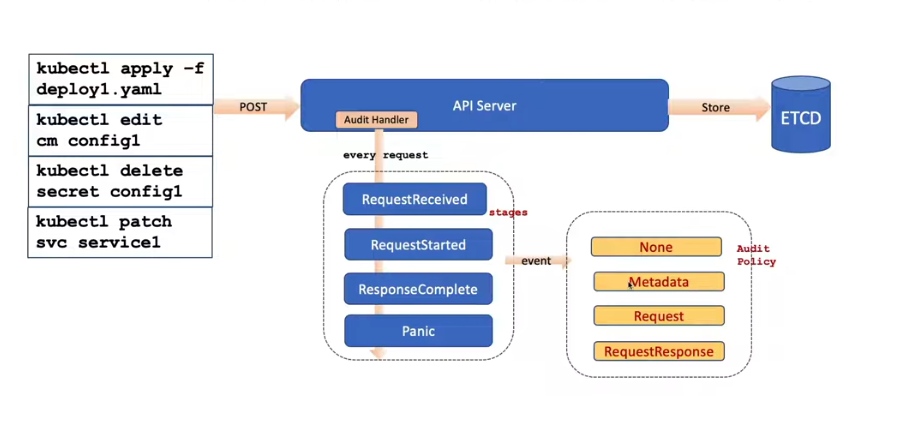
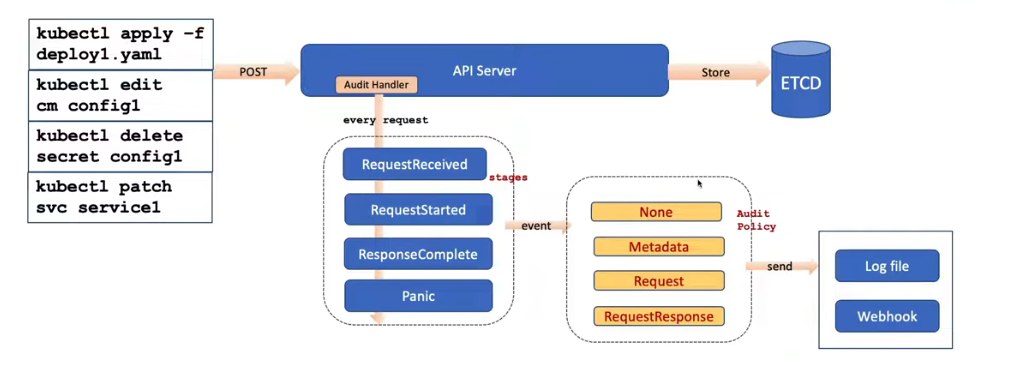
(add): part of audit logging blog

diff --git a/content/blog/audit-logging.md b/content/blog/audit-logging.md
@@ -1,0 +1,255 @@
+---
+title: "Kubernetes Audit Logging: Stages, Levels, and Policy Design"
+description: "A breakdown of how kube-apiserver audit events actually work - request stages, audit levels, writing policies, and how SREs tune them differently for prod vs dev clusters."
+dateString: June 2026
+draft: false
+tags: ["Kubernetes", "DevOps", "Security", "Compliance", "kube-apiserver", "SRE"]
+weight: 1
+cover:
+    image: "/blog/audit-logging/k8s-audit.png"
+---
+
+## Architecture
+
+![K8s Audit Logging Architecture](/blog/audit-logging/architecture.png)
+
+Every single request that hits `kube-apiserver` (eg. `kubectl get pods`) generates an audit event. There's no separate "audit service" sitting beside the apiserver; auditing is a feature built directly into the apiserver's request handling pipeline.
+
+As that request moves through its lifecycle, it passes through up to four **stages**, and the apiserver can emit an audit event at each one.
+
+---
+
+## The four stages
+
+#### 1. RequestReceived
+
+Generated the moment the audit handler receives the request, before it's been processed or authorized.
+
+```json
+{
+  "kind": "Event",
+  "apiVersion": "audit.k8s.io/v1",
+  "level": "Metadata",
+  "stage": "RequestReceived",
+  "requestURI": "/api/v1/namespaces/default/pods",
+  "verb": "create",
+  "user": { "username": "deploy-bot", "groups": ["system:serviceaccounts"] },
+  "requestReceivedTimestamp": "2026-06-23T10:15:30.100000Z"
+}
+```
+
+This stage exists, but not very usefull in most cases cause it roughly doubles event volume while telling you nothing you don't already get.
+
+### ResponseStarted
+
+Fired once the response headers go out, but before the response body is sent. This only applies to long-running requests - `watch` connections are the main case. A `kubectl get pods -w` or a controller's informer watch will hit this stage, a normal `kubectl get pods` won't.
+
+```json
+{
+  "kind": "Event",
+  "apiVersion": "audit.k8s.io/v1",
+  "level": "Metadata",
+  "stage": "ResponseStarted",
+  "requestURI": "/api/v1/namespaces/default/pods?watch=true",
+  "verb": "watch",
+  "user": { "username": "system:kube-controller-manager" }
+}
+```
+
+### ResponseComplete
+
+The response body has been fully sent - nothing more is coming. This is the stage that matters most for almost every use case (security review, compliance evidence, "who deleted this?", etc.), because it carries the complete picture: what was asked, who asked, and what the server actually did about it.
+
+```json
+{
+  "kind": "Event",
+  "apiVersion": "audit.k8s.io/v1",
+  "level": "Request",
+  "auditID": "a1b2c3d4-e5f6-7890-abcd-ef0123456789",
+  "stage": "ResponseComplete",
+  "requestURI": "/api/v1/namespaces/production/pods/my-app-pod",
+  "verb": "delete",
+  "user": {
+    "username": "[email redacted]",
+    "groups": ["developers", "system:authenticated"]
+  },
+  "sourceIPs": ["10.0.0.50"],
+  "objectRef": {
+    "resource": "pods",
+    "namespace": "production",
+    "name": "my-app-pod",
+    "apiVersion": "v1"
+  },
+  "responseStatus": { "code": 200 },
+  "requestReceivedTimestamp": "2026-06-23T10:15:30.123456Z",
+  "stageTimestamp": "2026-06-23T10:15:30.234567Z"
+}
+```
+
+### Panic
+
+Generated only when the apiserver hits an internal panic while handling the request. Rare, but useful as a signal of something seriously wrong in the request path - worth never filtering out, regardless of how aggressive your policy is elsewhere.
+
+---
+
+## Audit levels - how much detail gets captured
+
+### None
+
+Nothing is logged. The request is matched by a rule and dropped entirely - no event written at all.
+
+```yaml
+- level: None
+  users: ["system:kube-proxy"]
+  verbs: ["watch"]
+```
+
+### Metadata
+
+Logs the request metadata - who, what verb, what resource, timestamp, source IP, response code - but never the request or response body.
+
+```json
+{
+  "kind": "Event",
+  "level": "Metadata",
+  "stage": "ResponseComplete",
+  "verb": "get",
+  "user": { "username": "jane.doe", "groups": ["developers"] },
+  "objectRef": { "resource": "secrets", "namespace": "production", "name": "db-creds" },
+  "responseStatus": { "code": 403, "reason": "Forbidden" }
+}
+```
+
+For anything that touches secrets - Metadata is the only level you should use - otherwise it will show you the request body or the response body which has the base64 encoded secret which anyone can easily decode. Metadata doesnt show those details.
+
+### Request
+
+Metadata plus the full request body. No response body.
+
+```json
+{
+  "kind": "Event",
+  "level": "Request",
+  "stage": "ResponseComplete",
+  "verb": "create",
+  "user": { "username": "ci-bot" },
+  "objectRef": { "resource": "configmaps", "namespace": "kube-system", "name": "feature-flags" },
+  "requestObject": {
+    "kind": "ConfigMap",
+    "apiVersion": "v1",
+    "metadata": { "name": "feature-flags", "namespace": "kube-system" },
+    "data": { "new-checkout-flow": "true" }
+  }
+}
+```
+
+You see what was *sent*, but not what the server returned.
+
+### RequestResponse
+
+The most verbose - metadata, request body, and response body. Useful for high-value resources where you want to know exactly what changed and exactly what the server's final state ended up being, but expensive in storage if we apply it broadly.
+
+```json
+{
+  "kind": "Event",
+  "level": "RequestResponse",
+  "stage": "ResponseComplete",
+  "verb": "create",
+  "user": { "username": "kubernetes-admin", "groups": ["system:masters"] },
+  "objectRef": { "resource": "rolebindings", "namespace": "production", "name": "ci-deploy-binding" },
+  "requestObject": {
+    "kind": "RoleBinding",
+    "roleRef": { "kind": "Role", "name": "deploy-role" },
+    "subjects": [{ "kind": "ServiceAccount", "name": "ci-bot", "namespace": "production" }]
+  },
+  "responseObject": {
+    "kind": "RoleBinding",
+    "metadata": { "uid": "rb-uid-456", "resourceVersion": "9821" }
+  }
+}
+```
+
+This is the level you want for RBAC changes, NetworkPolicy changes, and anything where "what did it end up looking like after" matters as much as "what was requested."
+
+---
+
+## Writing an audit policy
+
+A policy is just a list of rules evaluated **top to bottom** - the first matching rule decides the level for that request, and evaluation stops there. Order matters a lot here; a broad rule placed too early will swallow requests you meant to catch with a more specific rule below it.
+
+```yaml
+apiVersion: audit.k8s.io/v1
+kind: Policy
+omitStages:
+  - "RequestReceived"
+rules:
+  # Drop noisy, low-value system traffic first
+  - level: None
+    users: ["system:kube-proxy"]
+    verbs: ["watch"]
+
+  - level: None
+    userGroups: ["system:nodes"]
+    verbs: ["get", "list", "watch"]
+
+  - level: None
+    nonResourceURLs:
+      - "/healthz*"
+      - "/readyz*"
+      - "/metrics"
+
+  # Never write secret bodies, no matter the verb
+  - level: Metadata
+    resources:
+      - group: ""
+        resources: ["secrets"]
+
+  # Full detail for the resources that actually matter for security review
+  - level: RequestResponse
+    resources:
+      - group: "rbac.authorization.k8s.io"
+      - group: "networking.k8s.io"
+        resources: ["networkpolicies"]
+      - group: ""
+        resources: ["pods/exec", "pods/attach"]
+
+  # Request body for general mutations elsewhere
+  - level: Request
+    verbs: ["create", "update", "patch", "delete"]
+
+  # Catch-all
+  - level: Metadata
+```
+
+A rule can filter on any combination of `users`, `userGroups`, `verbs`, `resources` (with `group` / `resources` / `resourceNames`), `namespaces`, and `nonResourceURLs`. The catch all thing at the end is for any other event that doesnt fall into the above criterias.
+
+---
+
+## How to tune this in practice
+
+There isn't one universal policy - what gets logged, and at what level, depends heavily on the cluster's role.
+
+**It depends on environment (prod vs. dev/staging):**
+- Production clusters generally run `RequestResponse` on RBAC, NetworkPolicy, and exec/attach - these are the things you need full forensic detail on if something goes wrong.
+- Dev and staging clusters usually drop to `Metadata`-only almost everywhere, or even disable auditing for low-value namespaces, since the security stakes are lower and the volume isn't worth the storage cost.
+
+**It depends on compliance requirements:**
+- If you're working toward ISO 27001, SOC 2, or NIS2 (relevant to anything classified as an Important/Essential Entity), auditors generally want to see who changed access control and network policy objects, with enough detail to reconstruct the change - which pushes RBAC and NetworkPolicy rules toward `RequestResponse` regardless of environment.
+- Without a compliance driver, most teams are comfortable with `Metadata` as the default and only escalate specific resource types.
+
+**It depends on log volume and retention budget:**
+- A high-traffic cluster with thousands of requests per second at `RequestResponse` level can generate enormous log volume fast. Teams with tighter storage or shipping budgets push more rules toward `Metadata` and reserve `Request`/`RequestResponse` for a less no. of resource types.
+
+- This is also why `omitStages: ["RequestReceived"]` is used by most of the SRE teams - it's like a "50% volume cut with no loss of information" in most cases, since `ResponseComplete` already contains the request_received timestamp.
+
+**It depends on what's already noisy in your cluster:**
+- Health checks (`system:kube-probe`), kube-proxy watches, kubelet node status updates, and reconciler loops (ArgoCD, controller-manager, your GitOps tooling) account for a large fraction of total apiserver traffic. Filtering these to `None` early in the rule list is a good practice - without it, signals will get buried in noise.
+
+So what you should do is:
+1. `None` for known system/health noise, placed first
+2. `Metadata`- only, forced, for `secrets`.
+3. `RequestResponse` for RBAC objects, netpols, and `pods/exec`/`pods/attach`
+4. `Request` for general mutating verbs (`create`/`update`/`patch`/`delete`) on everything else
+5. `Metadata` catch all at the bottom
+
+---